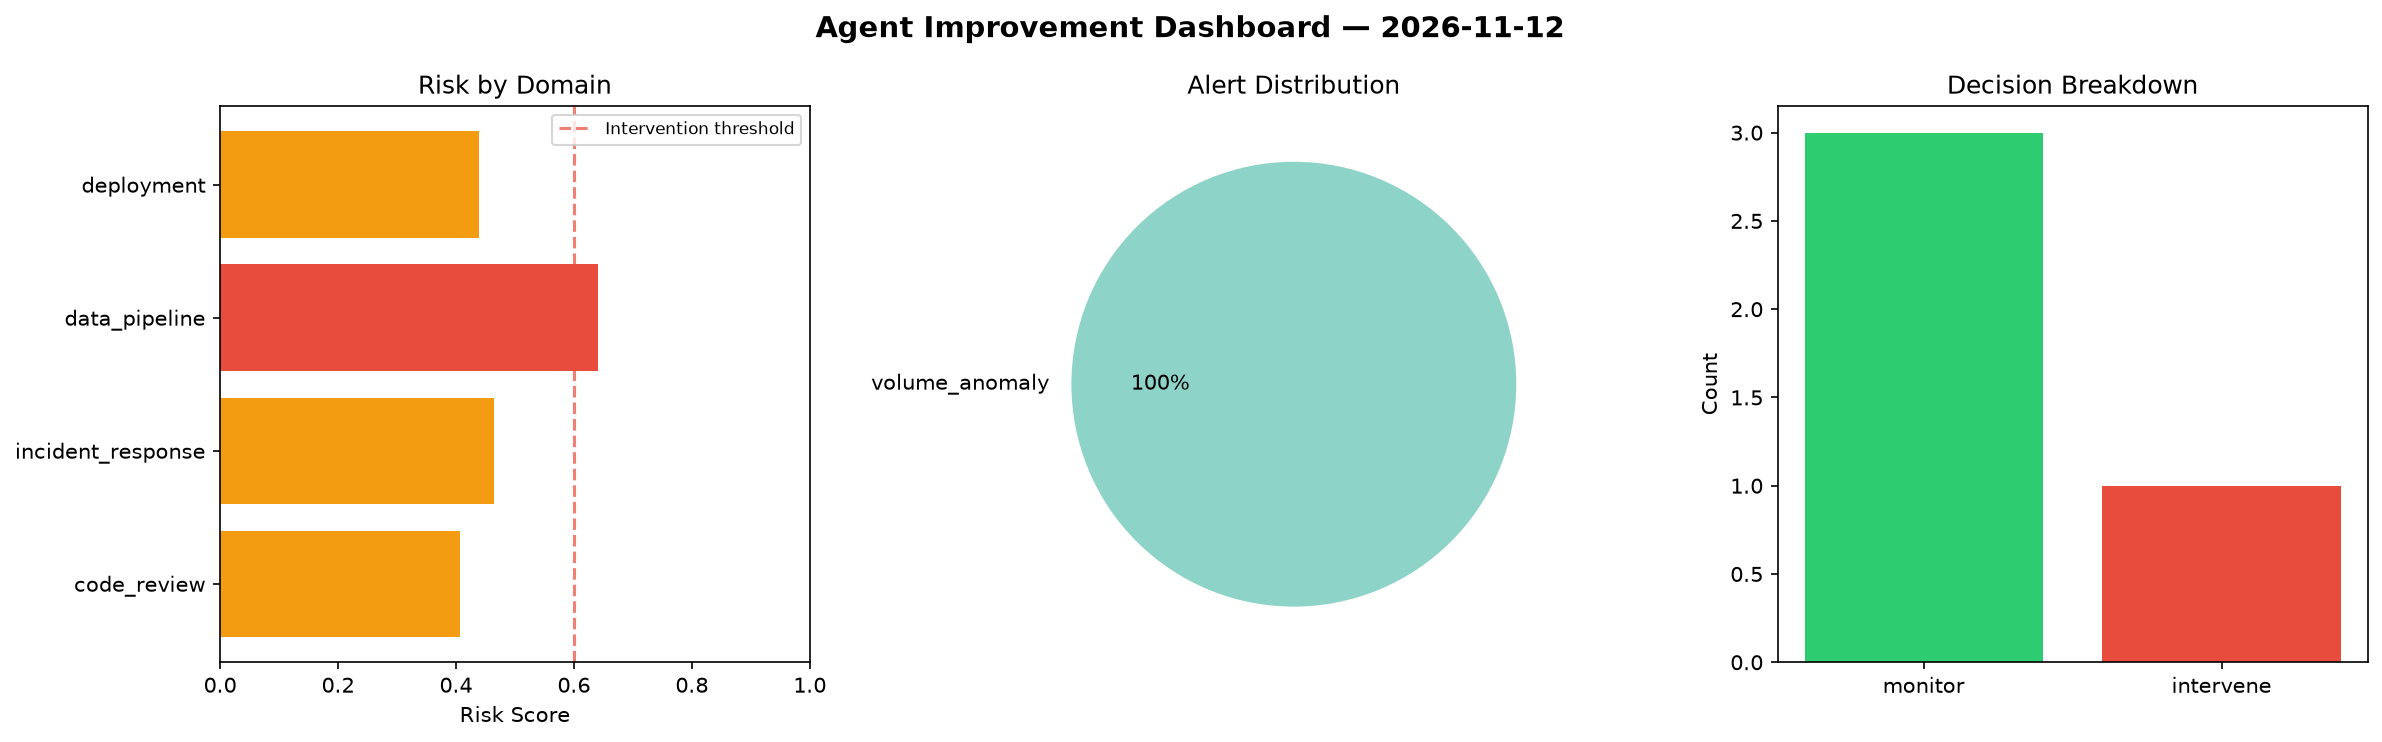
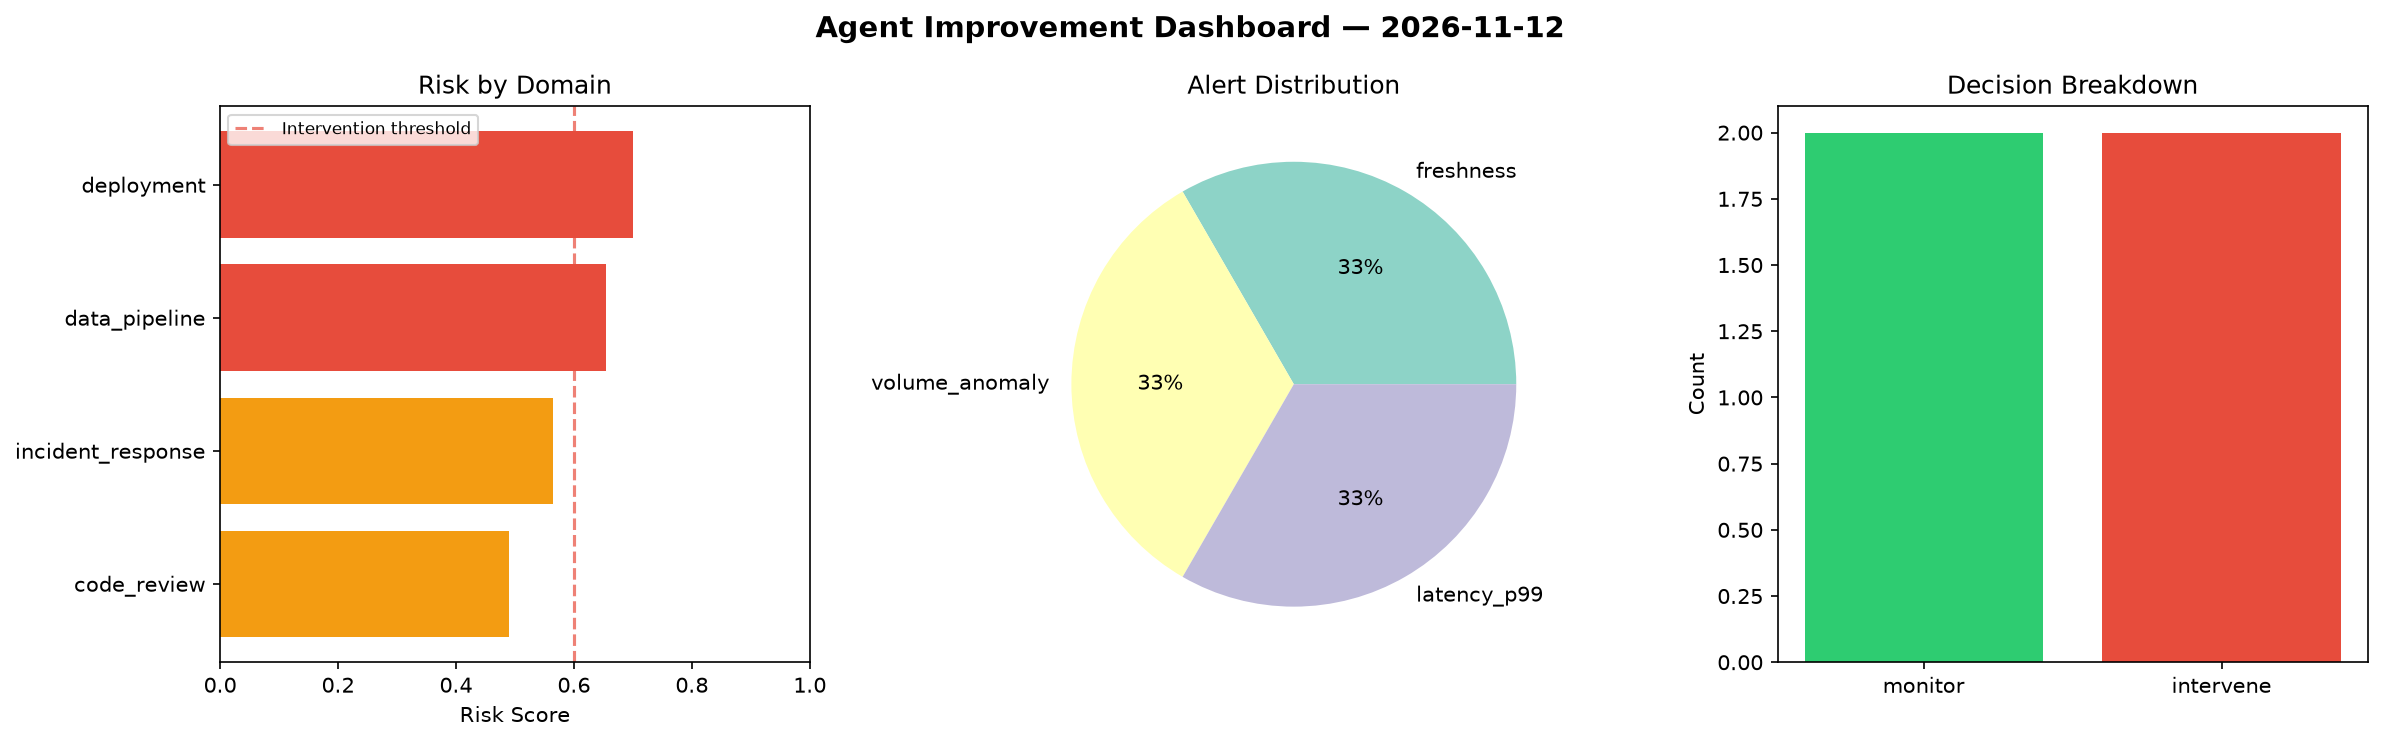
agent-improvement: daily cycle 2026-11-12T09:46

diff --git a/logs/2026-11-12.md b/logs/2026-11-12.md
@@ -1,6 +1,6 @@
 # Agent Improvement Report — 2026-11-12
 
-**Cycle ID:** `11575efd` | **Avg Risk:** 0.4871 | **Interventions:** 1/4
+**Cycle ID:** `bcf7c530` | **Avg Risk:** 0.6021 | **Interventions:** 2/4
 
 ![Dashboard](2026-11-12_dashboard.png)
 
@@ -10,18 +10,18 @@
 
 | Domain | Risk Score | Decision | Alerts |
 |--------|-----------|----------|--------|
-| code_review | 0.4066 | monitor | none |
-| incident_response | 0.4637 | monitor | none |
-| data_pipeline | 0.64 | intervene | volume_anomaly |
-| deployment | 0.4383 | monitor | none |
+| code_review | 0.4894 | monitor | none |
+| incident_response | 0.5644 | monitor | none |
+| data_pipeline | 0.6545 | intervene | freshness, volume_anomaly |
+| deployment | 0.7001 | intervene | latency_p99 |
 
 ## Delta vs Yesterday
 
 | Domain | Today | Yesterday | Change |
 |--------|-------|-----------|--------|
-| code_review | 0.4066 | 0.3105 | 📈 31.0% |
-| incident_response | 0.4637 | 0.8115 | 📉 -42.9% |
-| data_pipeline | 0.64 | 0.6925 | 📉 -7.6% |
-| deployment | 0.4383 | 0.604 | 📉 -27.4% |
+| code_review | 0.4894 | 0.3105 | 📈 57.6% |
+| incident_response | 0.5644 | 0.8115 | 📉 -30.4% |
+| data_pipeline | 0.6545 | 0.6925 | 📉 -5.5% |
+| deployment | 0.7001 | 0.604 | 📈 15.9% |
 
 **Refinement:** `{'adjustment': 'tighten_thresholds', 'trend': 'degrading', 'window': 4}`
